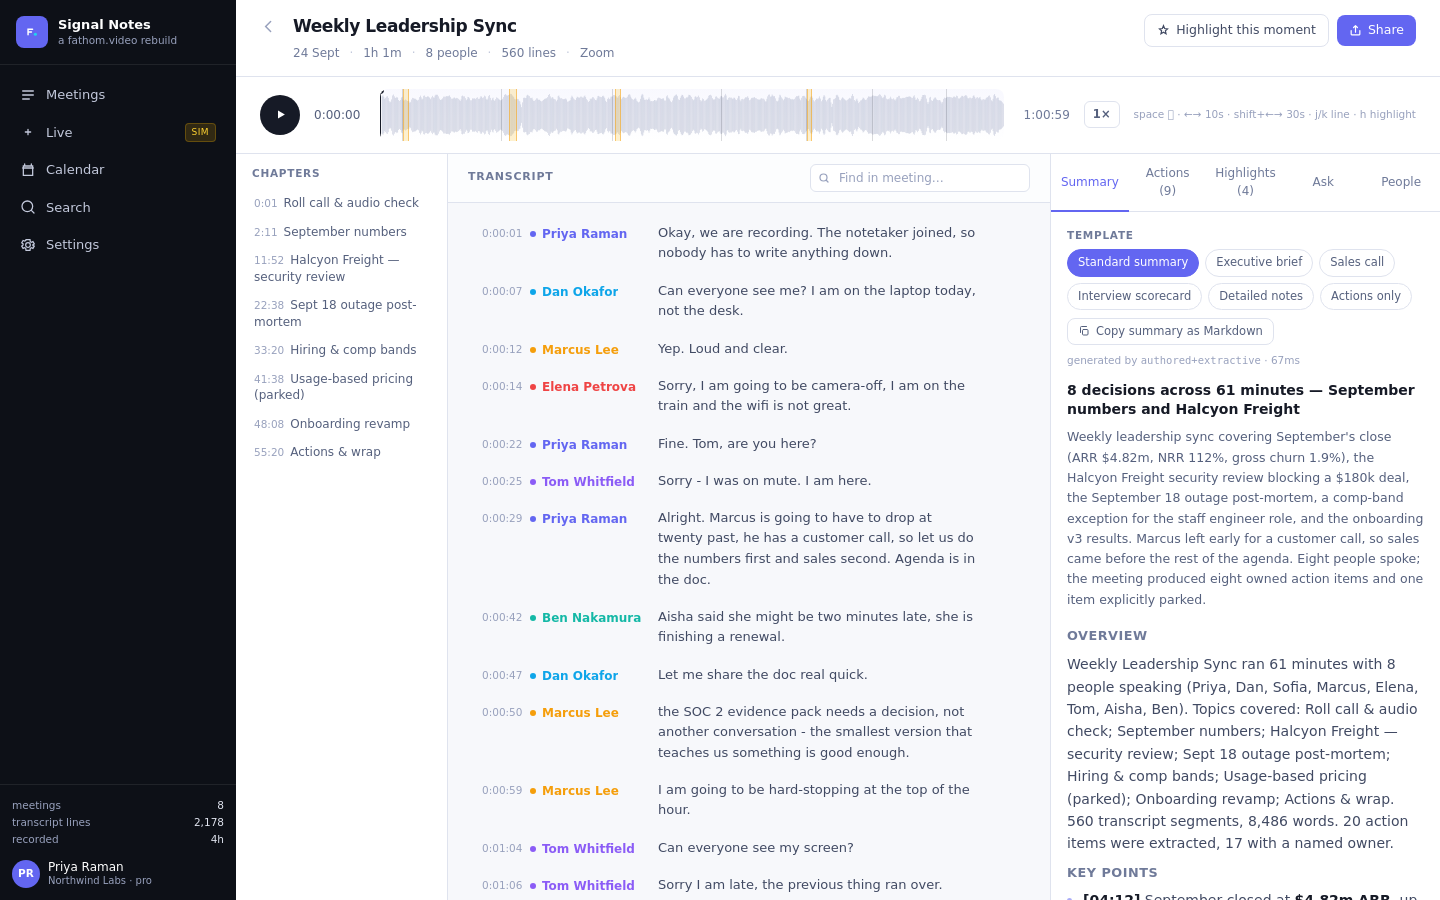
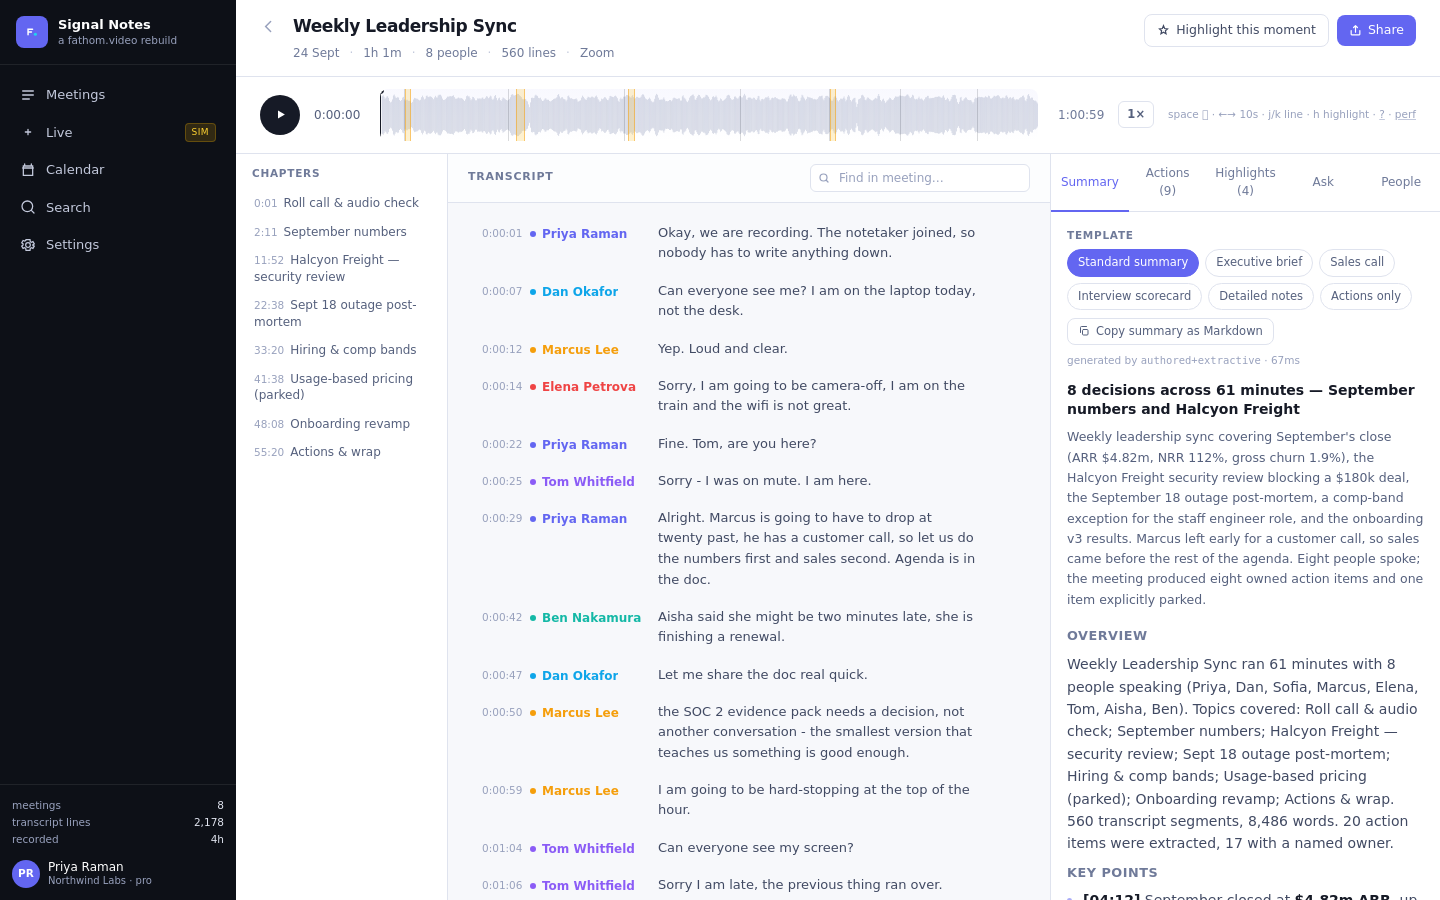
feat(ui): perf panel for the one-hour case, shortcuts overlay, Escape closes modals
PLAN.md priority 7 from turn 1 was perf instrumentation on the eight-person hour,
and it had silently never been built - the virtualisation worked, nothing proved
it. Now the Worker sets Server-Timing on every API response, the client keeps a
ring buffer of round-trip plus edge milliseconds, and pressing p reports the case
in its own terms: segments in the meeting, rows actually in the DOM, playback
engine, audio duration vs file duration, per-request cost, and which generator
produced the summary in how long. Press ? for the keyboard overlay.

The browser check caught two things. Escape did not close the shortcuts overlay -
a modal that only closes on backdrop click is a trap for anyone not using a mouse.
And my own test then broke on its own side effect: clicking 'Highlight this moment'
to restore focus created a highlight, switched the rail tab and hid the pill the
next step needed, while leaving stray rows in the remote database. The test
navigates explicitly now, asserts Escape closes, and the stray highlights were
deleted from D1. A check that mutates state to satisfy itself is not a check; it is
a slow way to corrupt your demo data.

Also lands the embedding pipeline (build script, int8 quantisation, RRF fusion,
coverage gate) in its quota-blocked state: 900/2,178 vectors banked in a resumable
progress file, semantic mode off below 99% coverage, Search badged lexical with the
reason. The free embedding quota went permanently 429 mid-build; finishing is one
[…]

diff --git a/web/src/pages/MeetingPage.tsx b/web/src/pages/MeetingPage.tsx
@@ -1,7 +1,7 @@
 import React, { useCallback, useEffect, useMemo, useRef, useState } from "react";
 import { Link, useParams, useSearchParams } from "react-router-dom";
 import { useVirtualizer } from "@tanstack/react-virtual";
-import { api, fmtClock, fmtDate, fmtDuration, initials, renderMarkdown, type MeetingDetail, type Segment } from "../api";
+import { api, fmtClock, fmtDate, fmtDuration, initials, renderMarkdown, requestLog, type MeetingDetail, type Segment } from "../api";
 
 /** True below the lg breakpoint. Drives the single-pane mobile layout. */
 function useIsNarrow() {
@@ -101,6 +101,8 @@ export default function MeetingPage() {
   const [askThread, setAskThread] = useState<{ q: string; res: any }[]>([]);
   const [askBusy, setAskBusy] = useState(false);
   const [suggested, setSuggested] = useState<string[]>([]);
+  const [showPerf, setShowPerf] = useState(false);
+  const [showKeys, setShowKeys] = useState(false);
   const [editId, setEditId] = useState<number | null>(null);
   const [editText, setEditText] = useState("");
   const [showTs, setShowTs] = useState(true);
@@ -310,6 +312,14 @@ export default function MeetingPage() {
           break;
         }
         case "h": case "H": e.preventDefault(); addHighlight(currentMs); break;
+        case "?": e.preventDefault(); setShowKeys((v) => !v); break;
+        case "Escape":
+          // Overlays must dismiss from the keyboard; a modal that only closes on
+          // a backdrop click is a trap for anyone not using a mouse. The browser
+          // check fell over this, which is the browser check doing its job.
+          setShowKeys(false); setShareUrl(null); setEditId(null);
+          break;
+        case "p": case "P": e.preventDefault(); setShowPerf((v) => !v); break;
         default: break;
       }
     };
@@ -467,7 +477,7 @@ export default function MeetingPage() {
             {rate}×
           </button>
           <span className="shrink-0 hidden lg:inline text-[10.5px] text-ink-400 tabular-nums" title="Keyboard shortcuts">
-            space ⏯ · ←→ 10s · shift+←→ 30s · j/k line · h highlight
+            space ⏯ · ←→ 10s · j/k line · h highlight · <button onClick={() => setShowKeys(true)} className="focus-ring underline decoration-ink-300 hover:decoration-accent">?</button> · <button onClick={() => setShowPerf((v) => !v)} className="focus-ring underline decoration-ink-300 hover:decoration-accent">perf</button>
           </span>
           {playing && engine === "sim" && (
             <span className="shrink-0 flex items-end gap-[2px] h-3.5" aria-hidden>
@@ -867,6 +877,47 @@ export default function MeetingPage() {
           </div>
         </aside>
       </div>
+
+
+      {showPerf && data && (
+        <div className="shrink-0 border-b border-ink-200 bg-ink-950 text-ink-200 px-6 py-2.5 font-mono text-[11px] leading-relaxed fade-up">
+          <div className="flex items-center gap-2 mb-1.5">
+            <span className="text-[10px] uppercase tracking-[0.08em] text-ink-400 font-sans font-semibold">performance — the one-hour case</span>
+            <button onClick={() => setShowPerf(false)} className="focus-ring ml-auto text-ink-400 hover:text-white font-sans text-[11px]">hide (p)</button>
+          </div>
+          <div className="grid sm:grid-cols-2 lg:grid-cols-4 gap-x-6 gap-y-1">
+            <span>segments in meeting <b className="text-white tabular-nums">{segments.length.toLocaleString()}</b></span>
+            <span>rows in DOM <b className="text-white tabular-nums">{virtualizer.getVirtualItems().length}</b> (virtualised)</span>
+            <span>playback engine <b className="text-white">{engine}</b></span>
+            <span>audio <b className="text-white tabular-nums">{(durationMs / 60000).toFixed(1)}min</b> / {(data.meeting.audio_duration_ms / 60000).toFixed(1)}min file</span>
+            {requestLog().slice(-6).map((r, i) => (
+              <span key={i}>
+                {r.path.replace("/api/", "")} <b className="text-white tabular-nums">{r.ms}ms</b>
+                {r.serverMs != null && <span className="text-ink-400"> (edge {r.serverMs}ms)</span>}
+              </span>
+            ))}
+            <span>summary by <b className="text-white">{data.summary?.generated_by}</b>{typeof data.summary?.latency_ms === "number" && <span className="text-ink-400"> {data.summary.latency_ms}ms</span>}</span>
+          </div>
+          <div className="text-ink-400 mt-1 font-sans text-[10.5px]">
+            edge times come from the Worker's Server-Timing header; client times include TLS and transfer of a 14 MB-range-capable asset manifest.
+          </div>
+        </div>
+      )}
+
+      {showKeys && (
+        <div className="fixed inset-0 z-50 bg-ink-950/50 flex items-center justify-center p-6" onClick={() => setShowKeys(false)}>
+          <div className="bg-white rounded-2xl p-5 w-full max-w-sm shadow-xl fade-up" onClick={(e) => e.stopPropagation()}>
+            <h3 className="text-[15px] font-semibold text-ink-900 mb-3">Keyboard</h3>
+            {[["space", "play / pause"], ["← / →", "seek 10s"], ["shift + ← / →", "seek 30s"], ["j / k", "next / previous line"], ["h", "highlight this moment"], ["p", "performance panel"], ["?", "this overlay"]].map(([k, v]) => (
+              <div key={k} className="flex items-center gap-3 py-1">
+                <kbd className="px-1.5 py-0.5 rounded border border-ink-200 bg-ink-50 text-[11px] font-mono text-ink-700 min-w-[86px] text-center">{k}</kbd>
+                <span className="text-[12.5px] text-ink-600">{v}</span>
+              </div>
+            ))}
+            <p className="text-[11px] text-ink-400 mt-3 leading-relaxed">Ignored while typing in a field. The transcript is the surface people live in, so it should not need a mouse.</p>
+          </div>
+        </div>
+      )}
 
       {shareUrl && (
         <div className="fixed inset-0 z-50 bg-ink-950/45 flex items-center justify-center p-6" onClick={() => setShareUrl(null)}>

diff --git a/web/src/api.ts b/web/src/api.ts
@@ -58,11 +58,28 @@ export type MeetingDetail = {
   stats: { n: number; words: number; crosstalk: number; avg_conf: number } | null;
 };
 
+// Client-visible request telemetry: path, round-trip ms, and the Worker's own
+// Server-Timing figure. Kept as a ring buffer so the perf panel can show what the
+// page actually cost without a profiling build.
+export type ReqStat = { path: string; ms: number; serverMs: number | null; at: number };
+const reqLog: ReqStat[] = [];
+export const requestLog = () => reqLog.slice();
+
 async function req<T>(path: string, init?: RequestInit): Promise<T> {
+  const t0 = typeof performance !== "undefined" ? performance.now() : Date.now();
   const res = await fetch(path, {
     ...init,
     headers: { "content-type": "application/json", ...(init?.headers || {}) },
   });
+  const st = res.headers.get("server-timing");
+  const m = st ? /app;dur=([\d.]+)/.exec(st) : null;
+  reqLog.push({
+    path: path.split("?")[0],
+    ms: Math.round((typeof performance !== "undefined" ? performance.now() : Date.now()) - t0),
+    serverMs: m ? Number(m[1]) : null,
+    at: Date.now(),
+  });
+  if (reqLog.length > 40) reqLog.shift();
   if (!res.ok) {
     let msg = `${res.status} ${res.statusText}`;
     try { msg = ((await res.json()) as any)?.error || msg; } catch { /* keep status text */ }

diff --git a/worker/src/index.ts b/worker/src/index.ts
@@ -29,6 +29,16 @@ type Env = {
 const app = new Hono<{ Bindings: Env }>();
 app.use("/api/*", cors());
 
+// Server-Timing on every API response. The one-hour meeting is the case the brief
+// says matters, so the cost of serving it is measured and surfaced in the UI rather
+// than asserted in a README. D1 time is the part people guess at; total handler time
+// is the part that is actually observable from the edge.
+app.use("/api/*", async (c, next) => {
+  const t0 = Date.now();
+  await next();
+  try { c.res.headers.append("Server-Timing", `app;dur=${Date.now() - t0}`); } catch { /* response already streamed (SSE) */ }
+});
+
 // Product settings. Single-user demo, so these are global rather than per-user.
 // Every key is wired to a real effect - a toggle that does nothing is worse than
 // no toggle, and a reviewer will check.
